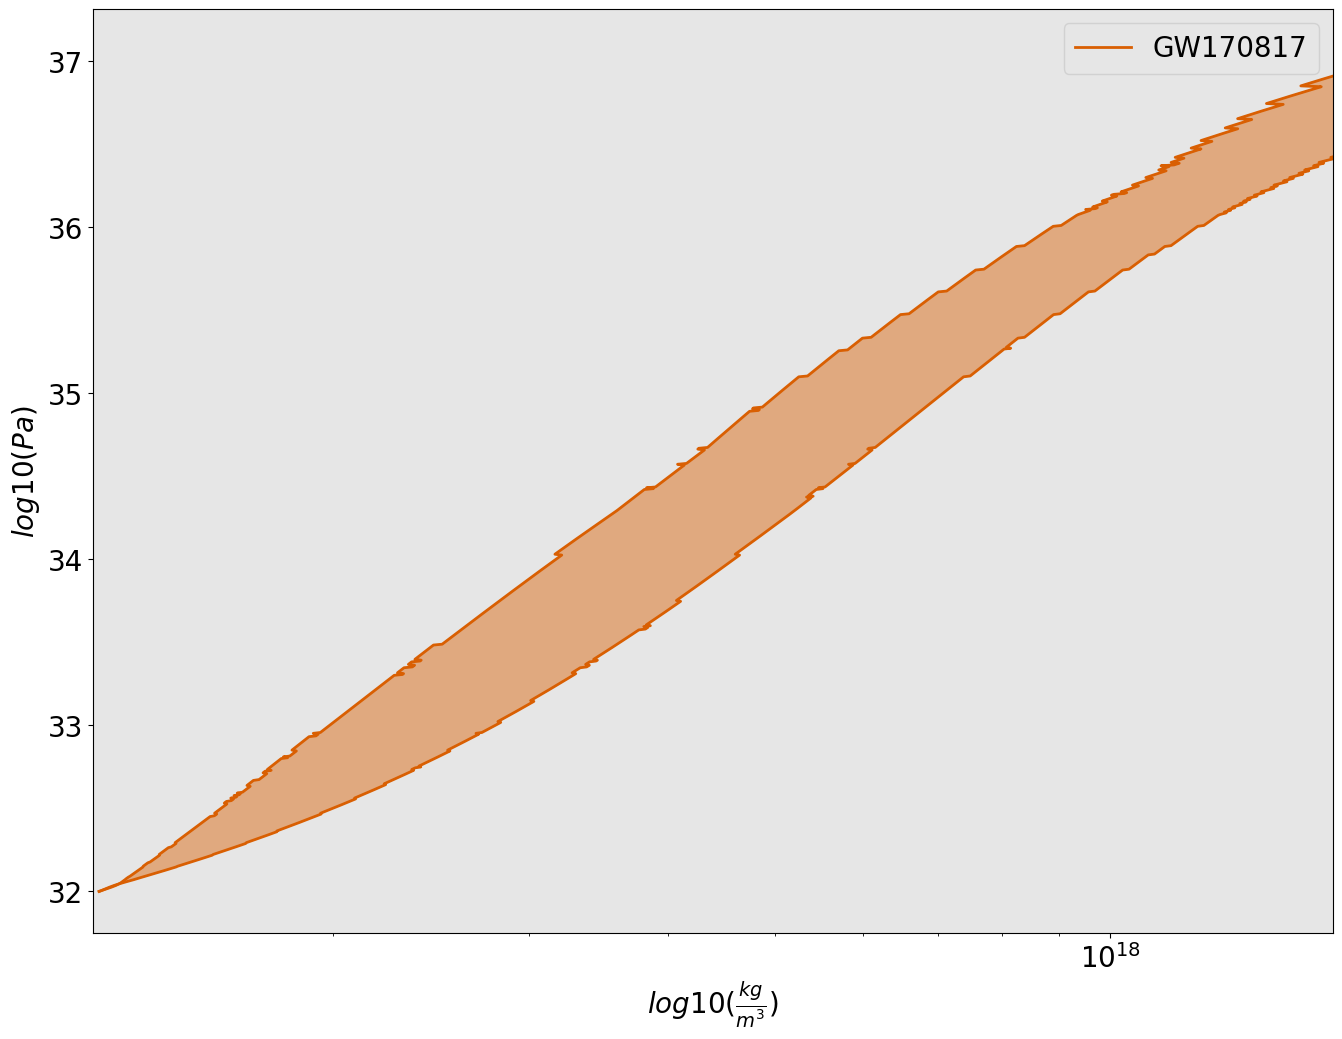
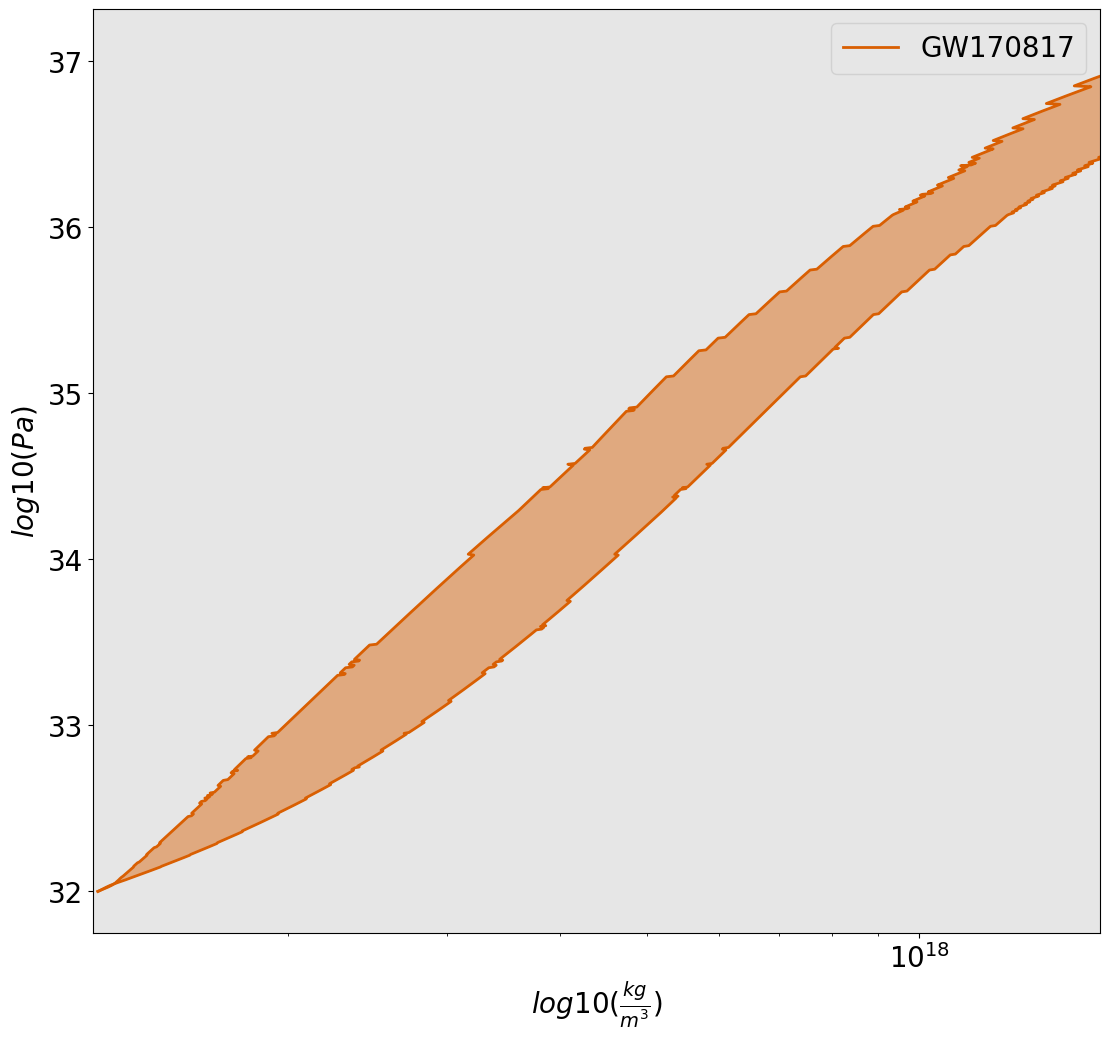
Plots of plots resembling Anarya's. 23th attempt.

diff --git a/joint_inference/development/confidence_interval.py b/joint_inference/development/confidence_interval.py
@@ -23,7 +23,7 @@ def plot_intervals(outputfile):
 #    colors = ["#d95f02", "#7570b3", "#000000"]
 
     pl.clf()
-    pl.figure(figsize=(16,12))
+    pl.figure(figsize=(13,12))
     pl.rc('font', size=20)
     pl.rc('axes', facecolor='#E6E6E6', edgecolor='black')
     pl.rc('xtick', direction='out', color='black', labelcolor='black')
